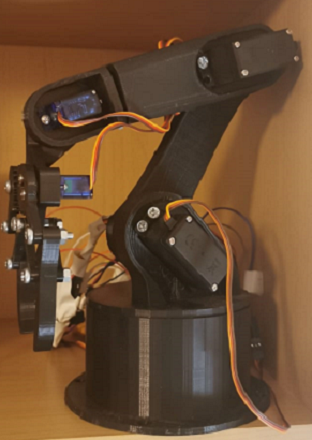
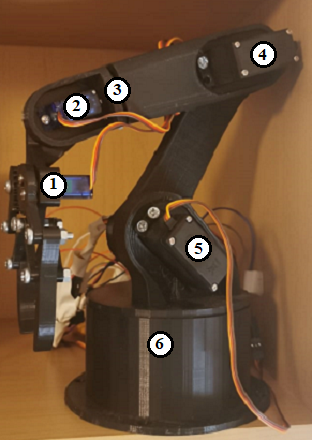
some graphing stuff updated

diff --git a/function_utils.py b/function_utils.py
@@ -34,15 +34,18 @@ class SerialConnection():
 class CommandButton():
 
     def __init__(self,root,**kwargs):
+        self.motoNumber = kwargs['number']
         self.frame = self.__create_button_frame(root,kwargs)
         self.menos = self.__buttonCreator(tipo ='menos',relx=0.25)
         self.plus = self.__buttonCreator(tipo = 'plus',relx=0.75)
+        self.motorLabel = self.__labelCreator(relx = 0.5,rely=0.15,relwidth=0.15,relheight=0.7,anchor='n')
         self.name = kwargs['text']
         self.ButtonPlusPress = False
         self.ButtonMenosPress = False
         self.message = None
         self.messagePlus = kwargs['mexPlus']
         self.messageMenos = kwargs['mexMenos']
+        
 
     def __create_button_frame(self,root,kwargs):
 
@@ -53,12 +56,18 @@ class CommandButton():
     def __buttonCreator(self,**kwargs):
         img = Image.open(f'images\\{kwargs["tipo"]}.png')
         img = ImageTk.PhotoImage(img)
-        button = tk.Button(self.frame,image=img,command = self.__donothing,borderwidth=0)
+        button = tk.Button(self.frame,image=img,command = self.__donothing,borderwidth=0,cursor='hand1')
         button.image=img
-        button.place(relx=kwargs['relx'],rely=-0.07,anchor='n')
+        button.place(relx=kwargs['relx'],rely=-0.02,anchor='n')
         button.bind('<Button-1>',lambda e: Thread(name = 'Button Pressed',target=self.__dosomething, args=[e,kwargs["tipo"]]).start())
         return button
     
+    def __labelCreator(self,**kwargs):
+        label = tk.Label(self.frame,bg='black',fg='white',text = str(self.motoNumber),font='Helvetic 15 bold',borderwidth=5)
+        label.place(kwargs)
+        return label
+
+
     def __donothing(self):
         self.message = b'0'
         self.ButtonMenosPress = False
@@ -84,15 +93,15 @@ def createSerialInterface(frameSX,porta,list_seria_port,baud_rate,setConnection,
     connectionFrame = tk.LabelFrame(frameSX,labelanchor='n',text='SET SERIAL CONNECTION',bg='black',fg='white')
     setPorta = tk.OptionMenu(connectionFrame,porta,*list_seria_port)
     setBaudrate = tk.OptionMenu(connectionFrame,baud_rate,*baudList)
-    pulsanteProva = tk.Button(connectionFrame,text='CONNECT',command=lambda: setConnection(pulsanteProva),bg='green',font='Helvetic 10 bold')
-    pulsanteProva1 = tk.Button(connectionFrame,text='refresh port',command=lambda: updatePortAvailable(setPorta,connectionFrame),
-                                bg='lightblue',font='Helvetic 8 bold')
+    connectionButton = tk.Button(connectionFrame,text='CONNECT',command=lambda: setConnection(connectionButton),bg='green',font='Helvetic 10 bold',cursor='hand1')
+    comRefreshButton = tk.Button(connectionFrame,text='refresh port',command=lambda: updatePortAvailable(setPorta,connectionFrame),
+                                bg='lightblue',font='Helvetic 8 bold',cursor='hand1')
     label1 = tk.Label(connectionFrame,text='SERIAL PORT',bg = 'black',fg='white',borderwidth=0)
     label2 = tk.Label(connectionFrame,text='BAUD RATE',bg = 'black',fg='white',borderwidth=0)
     label1.place(relx=0.2,rely=0.05,anchor='n')
     label2.place(relx=0.5,rely=0.05,anchor='n')
     setPorta.place(relx=0.2,rely=0.35,anchor='n')
     setBaudrate.place(relx=0.5,rely=0.35,anchor='n')
-    pulsanteProva.place(relx=0.8,rely=0.50,relwidth=0.3,anchor='n')
-    pulsanteProva1.place(relx=0.8,rely=0.05,anchor='n')
+    connectionButton.place(relx=0.8,rely=0.50,relwidth=0.3,anchor='n')
+    comRefreshButton.place(relx=0.8,rely=0.05,anchor='n')
     connectionFrame.place(relx=0.5,rely=0.83,relheight=0.17,relwidth=1,anchor='n')

diff --git a/main.py b/main.py
@@ -109,17 +109,17 @@ if __name__ == '__main__':
 
     #FRAME DX (create 6 subframe)
     start, inc = 0.02,0.16
-    handTool = utils.CommandButton(frameDX,text='HAND',rely=start,mexPlus = b'1',mexMenos = b'2')
+    handTool = utils.CommandButton(frameDX,text='HAND',rely=start,mexPlus = b'1',mexMenos = b'2',number=1)
     start += inc
-    wristY = utils.CommandButton(frameDX,text='ROTATION WRIST Y',rely=start,mexPlus = b'3',mexMenos = b'4')
+    wristY = utils.CommandButton(frameDX,text='ROTATION WRIST Y',rely=start,mexPlus = b'3',mexMenos = b'4',number=2)
     start += inc
-    wristX = utils.CommandButton(frameDX,text='ROTATION WRIST X',rely=start,mexPlus = b'5',mexMenos = b'6')
+    wristX = utils.CommandButton(frameDX,text='ROTATION WRIST X',rely=start,mexPlus = b'5',mexMenos = b'6',number=3)
     start += inc
-    elbow = utils.CommandButton(frameDX,text='ELBOW',rely=start,mexPlus = b'7',mexMenos = b'8')
+    elbow = utils.CommandButton(frameDX,text='ELBOW',rely=start,mexPlus = b'7',mexMenos = b'8',number=4)
     start += inc
-    shoulderY = utils.CommandButton(frameDX,text='ROTATION SHOULDER Y',rely=start,mexPlus = b'9',mexMenos = b'10')
+    shoulderY = utils.CommandButton(frameDX,text='ROTATION SHOULDER Y',rely=start,mexPlus = b'9',mexMenos = b'10',number=5)
     start += inc
-    shoulderZ = utils.CommandButton(frameDX,text='ROTATION SHOULDER Z',rely=start,mexPlus = b'11',mexMenos = b'12')
+    shoulderZ = utils.CommandButton(frameDX,text='ROTATION SHOULDER Z',rely=start,mexPlus = b'11',mexMenos = b'12',number=6)
 
     ## manual panel
     buttons = [handTool,wristY,wristX,elbow,shoulderY,shoulderZ]
